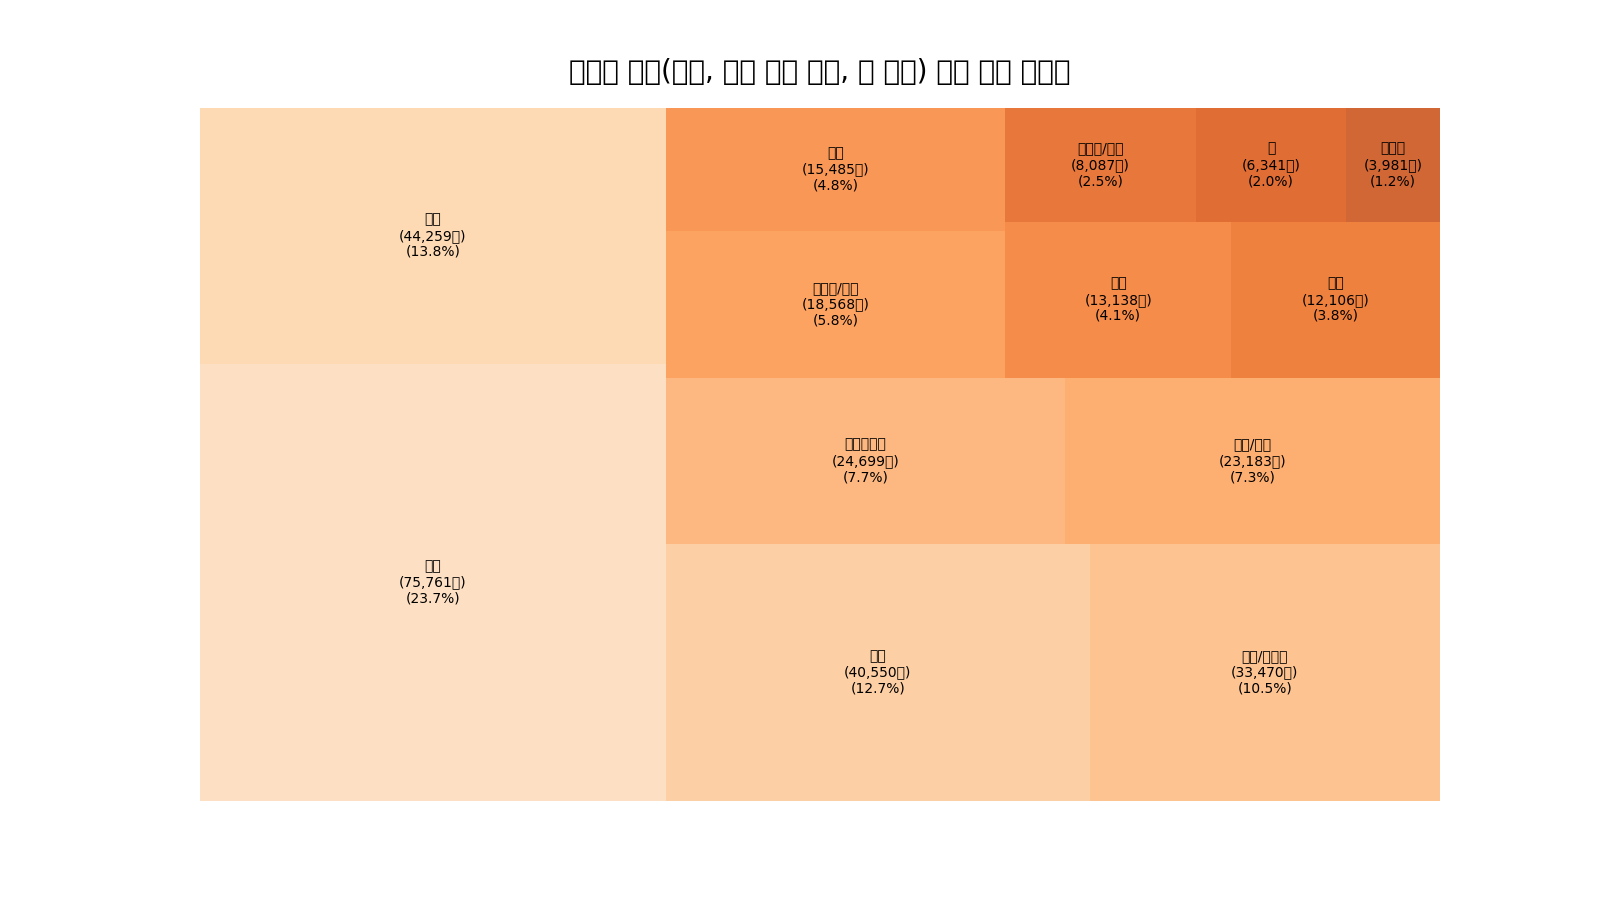
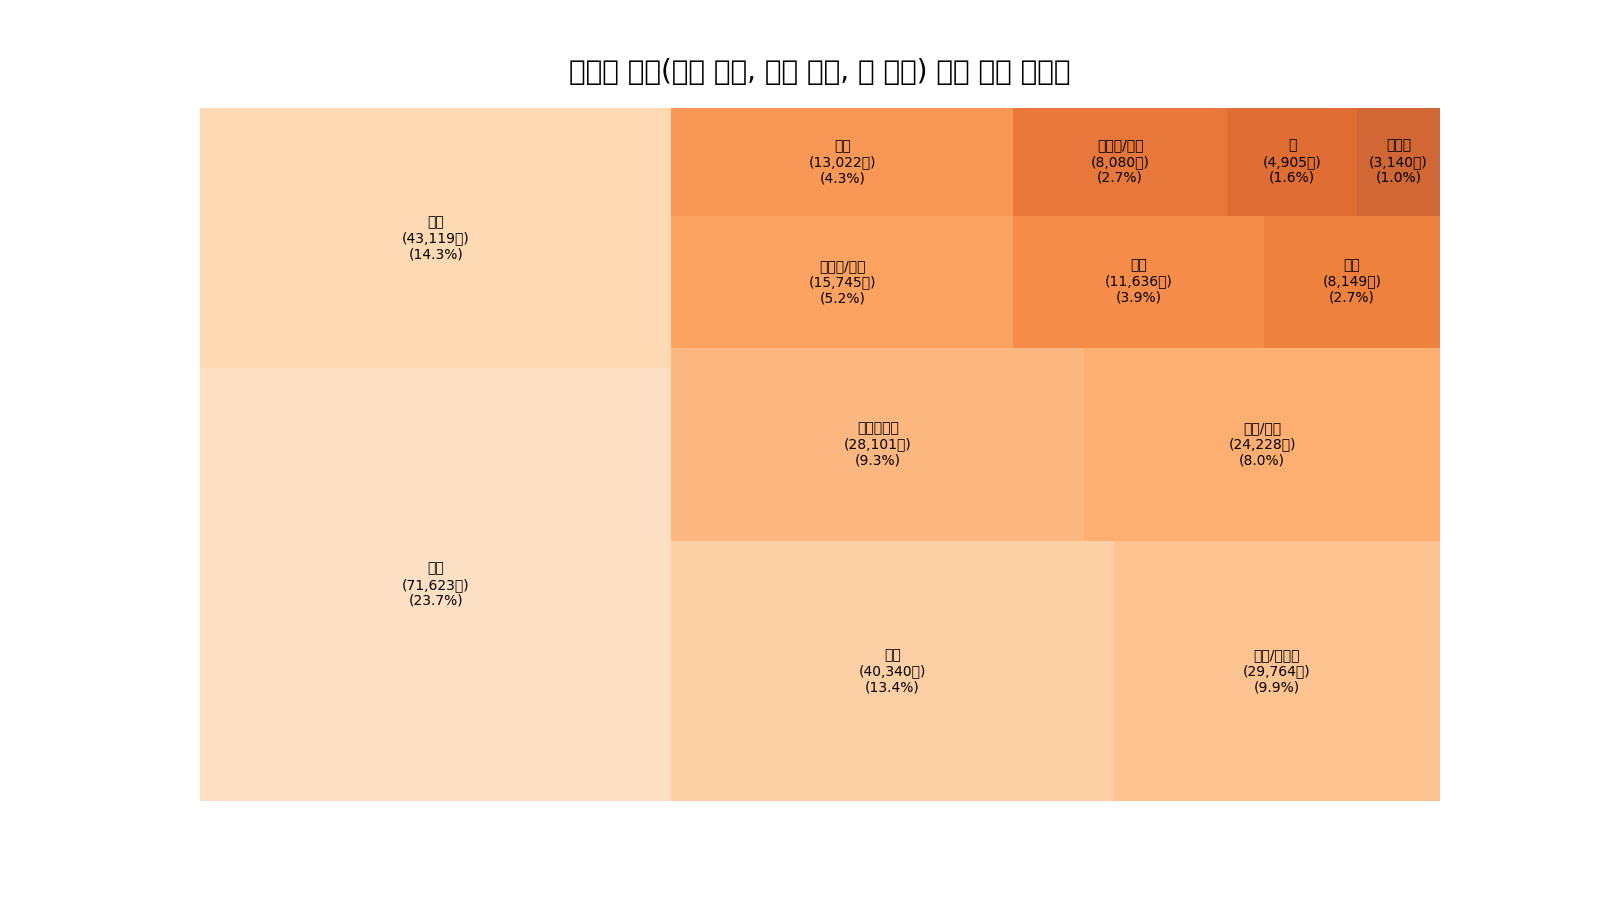
아이콘&스타일 수정

diff --git a/templates/index.html b/templates/index.html
@@ -130,19 +130,33 @@
         <div id="map-and-list-section" class="mt-5" style="display: none;">
             <div class="row">
                 <div class="col-lg-8">
-                    <h2 id="map-title" class="section-title">주변 지도 🗺</h2>
+                    <div class="restaurant-title">
+                        <img src="https://storage.googleapis.com/tagjs-prod.appspot.com/v1/dVvoNoBrKq/tqtofl0j_expires_30_days.png" 
+                            id="map-img"
+                        />
+                        <h2 id="map-title" class="section-title">주변 지도 </h2>
+                    </div>
+                    
                     <div id="map"></div>
                 </div>
                 <div class="col-lg-4">
                     <!-- 맛집 리스트 제목과 정렬 버튼 -->
                     <div class="d-flex justify-content-between align-items-center mb-2">
-                        <h2 class="section-title mb-0">맛집 리스트</h2>
-                        <!-- 정렬 버튼 그룹 -->
-                        <div id="sort-buttons" class="btn-group btn-group-sm" role="group" style="display: none;">
-                            <button type="button" class="btn btn-outline-primary active" onclick="resortPlaces('accuracy')">정확도순</button>
-                            <button type="button" class="btn btn-outline-primary" onclick="resortPlaces('distance')">거리순</button>
-                            <button type="button" class="btn btn-outline-primary" onclick="resortPlaces('rating')">평점순</button>
+
+                        <div class="restaurant-list">
+                            <img
+        						src="https://storage.googleapis.com/tagjs-prod.appspot.com/v1/dVvoNoBrKq/jsm7vi82_expires_30_days.png" 
+        						style="position: absolute; left: -100px; width: 112px; height: 112px; object-fit: fill; transform: translateY(-35px);"
+        					/>
+                            <h2 class="section-title mb-0">맛집 리스트</h2>
+                            <!-- 정렬 버튼 그룹 -->
+                            <div id="sort-buttons" class="btn-group btn-group-sm" role="group" style="display: none; margin-left: 30px; transform: translateY(4px);">
+                                <button type="button" class="btn btn-outline-primary active" onclick="resortPlaces('accuracy')">정확도순</button>
+                                <button type="button" class="btn btn-outline-primary" onclick="resortPlaces('distance')">거리순</button>
+                                <button type="button" class="btn btn-outline-primary" onclick="resortPlaces('rating')">평점순</button>
+                            </div>
                         </div>
+                        
                     </div>
                     <!-- 맛집 목록이 표시될 곳 -->
                     <div id="search-results-list">
@@ -153,7 +167,7 @@
         </div>
     </div>
     <footer class="text-center text-muted py-4 mt-5">
-        <p>© 2025 날씨와 지역정보를 이용한 지능형 음식 추천 웹 서비스</p>
+        <p>© 날씨와 지역정보를 이용한 지능형 음식 추천 웹 서비스</p>
     </footer>
 
     <script src="https://cdn.jsdelivr.net/npm/bootstrap@5.3.3/dist/js/bootstrap.bundle.min.js"></script>

diff --git a/static/css/main.css b/static/css/main.css
@@ -286,6 +286,29 @@ body {
 /* ===========================
    Restaurant List
 =========================== */
+
+.restaurant-title {
+    display: flex;
+    align-items: flex-start;
+    /* margin-left: 16px; */
+}
+
+#map-img {
+    width: 64px; 
+    height: 64px;  
+    position: relative; 
+    object-fit: fill; 
+    transform: translateY(-16px);
+}
+
+.restaurant-list {
+    display: flex;
+    align-items: flex-start;
+    margin-left: 8px;
+    position: relative;
+}
+
+
 .list-group-item {
     border: none;
     border-width: 5px;
@@ -322,6 +345,8 @@ body {
     border-radius: 50%;
     padding: 1.2rem;
     background-size: 50%;
+    margin-top: 50px;
+    margin-bottom: 50px;
 }
 
 /* ===========================
